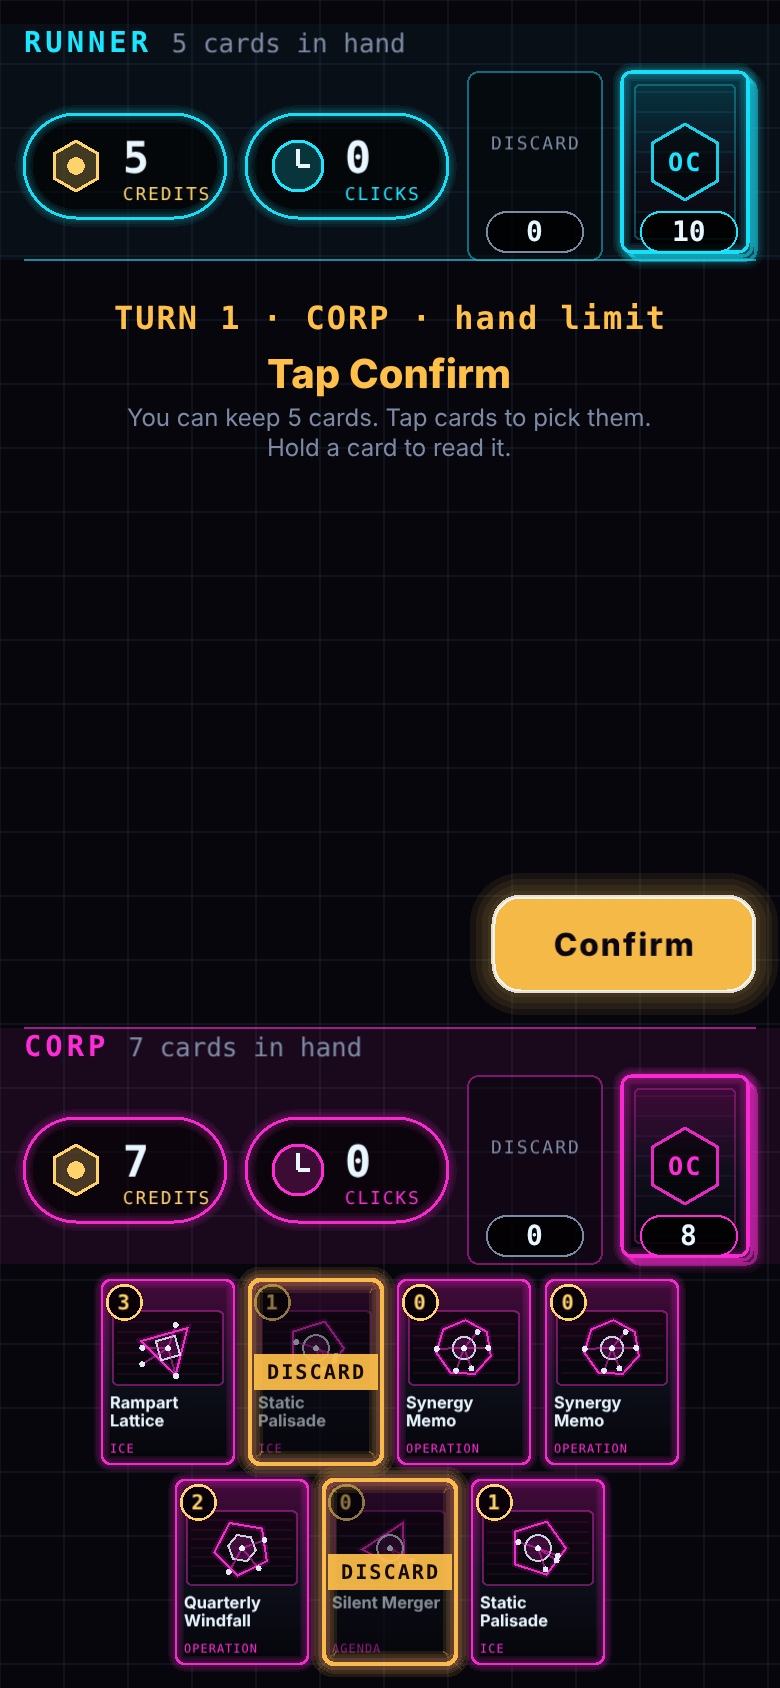
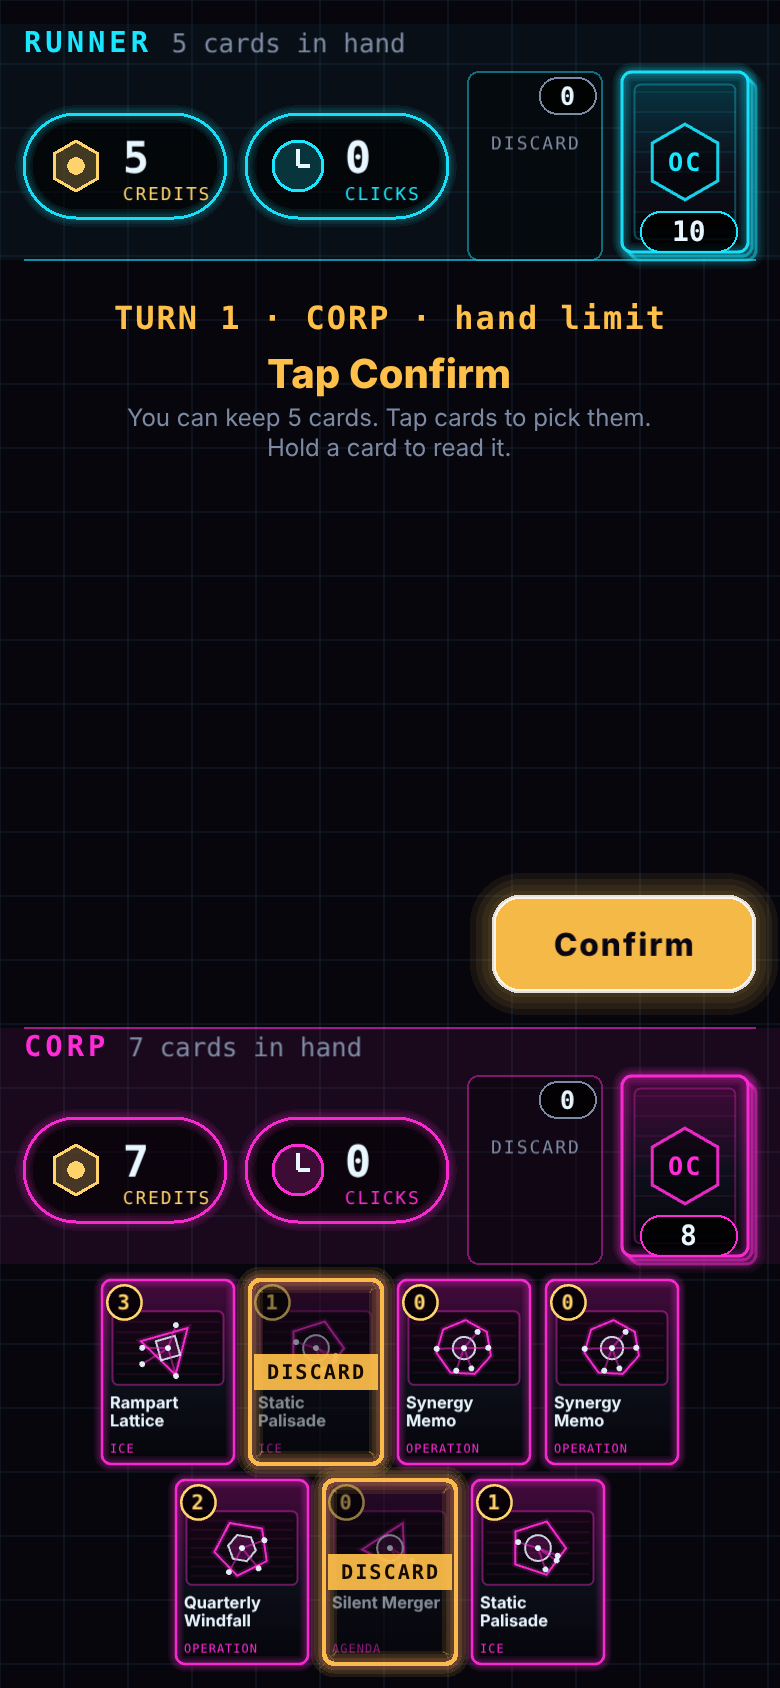
QA(sprint-01): round 2 — QA-S1-1 and QA-S1-2 fixed, no regressions; double-tap guard tests
Claude-Session: https://claude.ai/code/session_01H2afAQkcEZ6wrQU5EiPEBi

diff --git a/apps/client/e2e/qa-sprint01.spec.ts b/apps/client/e2e/qa-sprint01.spec.ts
@@ -249,3 +249,112 @@ test.describe('QA snappiness: longest turn change', () => {
     expect(qa.firstOk, 'End turn answered within 600ms of Confirm').toBeLessThanOrEqual(600);
   });
 });
+
+// Round 2 (QA-S1-1 fix): the End turn double-tap guard now counts from the tap that
+// ended the last turn. Check that extra taps in the next 300ms still do nothing, so a
+// fast double (or triple) tap cannot end two turns. On the discard path the Confirm
+// button and the next seat's End turn sit in the same spot.
+
+interface Poke {
+  /** ms after the release of the tap that ended the turn (page clock). */
+  at: number;
+  accepted: boolean;
+}
+
+/**
+ * Armed before the tap that ends a turn. From that tap's release, taps the spot `at`
+ * (and End turn, wherever it is once shown) at each of `offsets` ms, recording when
+ * each tap really happened and whether the game acted on it.
+ */
+async function pokeAfterTap(page: Page, at: Box, offsets: readonly number[]): Promise<void> {
+  await page.evaluate(
+    ([at, offsets]) => {
+      const w = window as unknown as { __pokes?: Poke[] };
+      const pokes: Poke[] = [];
+      w.__pokes = pokes;
+      window.addEventListener(
+        'pointerup',
+        (e) => {
+          const t0 = e.timeStamp;
+          const canvas = document.querySelector('canvas')!;
+          const r = canvas.getBoundingClientRect();
+          const hook = window.__overclock!;
+          const hit = (b: { x: number; y: number; width: number; height: number }) => {
+            const init = { bubbles: true, cancelable: true, pointerId: 11, pointerType: 'mouse', isPrimary: true, button: 0,
+              clientX: r.left + b.x + b.width / 2, clientY: r.top + b.y + b.height / 2 };
+            const before = JSON.stringify(hook.lastEvents());
+            const when = performance.now() - t0;
+            canvas.dispatchEvent(new PointerEvent('pointerdown', { ...init, buttons: 1 }));
+            canvas.dispatchEvent(new PointerEvent('pointerup', { ...init, buttons: 0 }));
+            pokes.push({ at: when, accepted: JSON.stringify(hook.lastEvents()) !== before });
+          };
+          for (const ms of offsets) {
+            setTimeout(() => {
+              hit(at);
+              const b = hook.layout().endTurn?.box;
+              if (b) hit(b);
+            }, Math.max(0, t0 + ms - performance.now()));
+          }
+        },
+        { once: true },
+      );
+    },
+    [at, offsets] as const,
+  );
+}
+
+const OFFSETS = [5, 40, 80, 120, 160, 200, 240, 270] as const;
+
+async function pokesResult(page: Page): Promise<Poke[]> {
+  await page.waitForFunction((n) => ((window as unknown as { __pokes: Poke[] }).__pokes.length >= n), OFFSETS.length);
+  await page.waitForTimeout(100);
+  return page.evaluate(() => (window as unknown as { __pokes: Poke[] }).__pokes);
+}
+
+test.describe('QA round 2: End turn double-tap guard', () => {
+  test('extra End turn taps in the 300ms after ending a turn do nothing (no discard)', async ({ page }) => {
+    await openBoard(page);
+    await toRunnerTurn(page);
+    await page.waitForTimeout(350);
+    const l = await layout(page);
+    const btn = l.endTurn!.box;
+    await pokeAfterTap(page, btn, OFFSETS);
+    await tap(page, btn);
+    const pokes = await pokesResult(page);
+    await waitIdle(page);
+    const v = await getView(page);
+    test.info().annotations.push({ type: 'pokes', description: JSON.stringify(pokes.map((p) => [Math.round(p.at), p.accepted])) });
+    for (const p of pokes.filter((x) => x.at < 300)) expect(p.accepted, `tap ${Math.round(p.at)}ms after End turn`).toBe(false);
+    expect(pokes.filter((x) => x.at < 300).length, 'extra taps landed inside the guard').toBeGreaterThanOrEqual(1);
+    // Only one turn ended. (A tap that the timers delivered after 300ms is a new, allowed
+    // tap: on the Corp's 6 cards it opens the hand-limit step, which is not a turn end.)
+    expect(v.activePlayer).toBe('corp');
+    expect(v.turn).toBe(3);
+    if (!pokes.some((p) => p.accepted)) expect(v.pendingDiscard).toBe(0);
+  });
+
+  test('after a 4-card discard, extra taps on the Confirm / End turn spot in the next 300ms do nothing', async ({ page }) => {
+    await openBoard(page);
+    await toRunnerTurn(page);
+    for (let i = 0; i < 4; i++) await dispatch(page, { type: 'draw', player: 'runner' });
+    await dispatch(page, { type: 'end_turn', player: 'runner' });
+    let l = await waitIdle(page);
+    for (const i of [0, 1, 2, 3]) await tap(page, l.hand[i]!.box);
+    l = await layout(page);
+    const confirm = l.picker!.confirm.box;
+    await pokeAfterTap(page, confirm, OFFSETS);
+    await tap(page, confirm);
+    const pokes = await pokesResult(page);
+    await waitIdle(page);
+    const v = await getView(page);
+    const after = await layout(page);
+    test.info().annotations.push({ type: 'pokes', description: JSON.stringify({ pokes: pokes.map((p) => [Math.round(p.at), p.accepted]), confirm, endTurn: after.endTurn?.box }) });
+    for (const p of pokes.filter((x) => x.at < 300)) expect(p.accepted, `tap ${Math.round(p.at)}ms after Confirm`).toBe(false);
+    expect(pokes.filter((x) => x.at < 300).length, 'extra taps landed inside the guard').toBeGreaterThanOrEqual(1);
+    expect(v.activePlayer).toBe('corp');
+    expect(v.turn).toBe(3);
+    if (!pokes.some((p) => p.accepted)) expect(v.pendingDiscard).toBe(0);
+    expect(v.players.runner.handCount).toBe(5);
+    expect(v.players.corp.handCount).toBe(6);
+  });
+});

diff --git a/docs/sprints/sprint-01-qa.md b/docs/sprints/sprint-01-qa.md
@@ -1,8 +1,10 @@
 # Sprint 1 — QA report
 
-QA date: 2026-11-12 · Branch `sprint-01` (verified at e2bd0ea plus the QA files, not yet committed) · QA did not write the code under test.
+QA date: 2026-11-12 · Branch `sprint-01` · Round 1 verified at e2bd0ea; **Round 2 verified at 20d5d52** (after the fixes eecee5f, 57d3bc7, 20d5d52) plus QA's uncommitted test/screenshot updates · QA did not write the code under test.
 
-Summary: **20 of 21 acceptance criteria PASS. 1 is an OWNER CHECK AT DEMO** (S-01-6 "Add to Home Screen", a manual check on a real phone; the automated part is green). **1 minor snappiness bug** (QA-S1-1, End turn ignores taps for about 0.7 s after a 4-card discard), **1 cosmetic bug** (QA-S1-2). No IP problems. QA added 2 engine tests and 16 Playwright runs (8 checks × phone/desktop).
+Summary (after Round 2): **20 of 21 acceptance criteria PASS. 1 is an OWNER CHECK AT DEMO** (S-01-6 "Add to Home Screen", a manual check on a real phone; the automated part is green). **Both Round 1 bugs are fixed and verified** (QA-S1-1: End turn now answers 315–513 ms after a 4-card Confirm, was 650–755 ms; QA-S1-2: face-up discard piles show name and type clearly). **All required checks now PASS**, including the snappiness budget. No new bugs, no regressions, no IP problems. QA has added 2 engine tests and 20 Playwright runs (10 checks × phone/desktop). See "Round 2" below.
+
+Round 1 summary (kept for history): 20/21 PASS + 1 owner check; 1 minor snappiness bug (QA-S1-1), 1 cosmetic bug (QA-S1-2).
 
 Criteria are the ones in `sprint-01-proposal.md` as updated by the owner's answers: no hand-over screen (the board shows the active player at the bottom), an End turn button with no automatic end, and ending the turn early is allowed.
 
@@ -24,7 +26,7 @@ Criteria are the ones in `sprint-01-proposal.md` as updated by the owner's answe
 | S-01-3 | End turn button is there; glows brighter once all clicks are used | **PASS** | P `turn.spec.ts` › "End turn is there and glows brighter once all clicks are used" (game's own flag). **Added by QA:** P `e2e/qa-sprint01.spec.ts` › "the End turn button is clearly brighter on screen once all clicks are used", which measures the real pixels: average brightness of the button goes from about 17 to about 99 (out of 255), and the share of bright pixels from 8% to 90%. Screenshots `phone-390x844-01…` (dim) vs `phone-390x844-04-corp-0-clicks-end-turn-glowing.png` (lit), `desktop-1280x800-02-corp-0-clicks-glow.png`. |
 | S-01-3 | End turn with clicks left ends the turn anyway | **PASS** | P `turn.spec.ts` › "ending with clicks left ends the turn anyway (leftover clicks are lost)". E `turn.test.ts` › "Corp may end with clicks left", "Runner may end with all 4 clicks left". QA playthrough: Runner ended with 2 clicks left (it held 6 cards, so the discard step came first). Screenshot `phone-390x844-13-runner-ends-early-hand-limit-discard-1.png`. |
 | S-01-3 | After the last click the turn does not end by itself | **PASS** | P `turn.spec.ts` › "the turn does not end by itself after the last click" (waits 1 s at 0 clicks: same turn, End turn glowing). E `turn.test.ts` › "spending the last click does not end the turn by itself". The engine property test below also confirms End turn is always offered and the turn never passes without it. |
-| S-01-3 | Turn change in well under a second, no extra screens | **PASS** | P `turn.spec.ts` › "the turn change is fast, with no extra screen, and the next player can act at once" (new seat inside the same tap, no cover screen, picker or zoom; the next player's deck tap works at once) and "turn change with a 4-card discard is still scheduled within 600ms". **Added by QA:** `qa-sprint01.spec.ts` › "Runner discards 4, then the Corp turn starts with its free draw…": the board flips to the Corp without any tap in **310–440 ms** on this machine (worst case, 4 cards flying), and the Corp's deck tap then draws. See QA-S1-1 for a smaller problem with the End turn button in that same moment. |
+| S-01-3 | Turn change in well under a second, no extra screens | **PASS** | P `turn.spec.ts` › "the turn change is fast, with no extra screen, and the next player can act at once" (new seat inside the same tap, no cover screen, picker or zoom; the next player's deck tap works at once) and "turn change with a 4-card discard is still scheduled within 600ms". **Added by QA:** `qa-sprint01.spec.ts` › "Runner discards 4, then the Corp turn starts with its free draw…": the board flips to the Corp without any tap in **310–440 ms** on this machine (worst case, 4 cards flying), and the Corp's deck tap then draws. Round 2: flip in **233–297 ms**, and End turn now also answers within 315–513 ms (QA-S1-1 fixed). |
 | S-01-4 | Turn change: active player's side at the bottom, hand face up, no cover screen | **PASS** | P `e2e/board.spec.ts` › "Corp turn: Corp at the bottom with its hand, Runner on top as a count", "Runner turn: the board flips straight away, no cover screen" (and back to the Corp). Screenshots `phone-390x844-11…` (Runner at the bottom) and `phone-390x844-14…` (Corp at the bottom). |
 | S-01-4 | You see how many cards your opponent holds, not what they are | **PASS** | E `engine/test/view.test.ts` › "shows the viewer their own hand and hides the opponent hand (count only)", "never exposes deck order…"; "hides cardId of opponent draws". P `board.spec.ts` (opponent hand is `null` in the view; top label reads "5 cards in hand"). The Corp's discards also reach the Runner face down (`phone-390x844-11…`, top row shows card backs). |
 | S-01-5 | More than 5 cards at End turn: asks you to pick, shows how many ("Discard 2") | **PASS** | P `e2e/discard.spec.ts` › "ending with more than 5 cards asks you to pick, showing how many are left". E `engine/test/discard.test.ts` AC1 group. QA playthrough: 7 cards → "Discard 2". Screenshots `phone-390x844-06-discard-picker-discard-2.png`, `phone-390x844-13…` (Runner side). |
@@ -41,14 +43,14 @@ Criterion count: S-01-1 ×5, S-01-2 ×4, S-01-3 ×4, S-01-4 ×2, S-01-5 ×4, S-0
 | Check | Result | Evidence |
 |---|---|---|
 | Snappiness: taps respond in < 100 ms | **PASS** | `expectSnappy` in `actions.spec.ts` and `turn.spec.ts`: game state < 100 ms after release, animation started < 100 ms after release, on phone (touch) and desktop. |
-| Snappiness: no animation blocks input > 600 ms | **FAIL (minor), see QA-S1-1** | Every animation is scheduled ≤ 600 ms and deck/credit taps never wait. But after a 4-card discard the next player's **End turn** answers only **650–755 ms** after Confirm (10 of 10 runs). Test: `qa-sprint01.spec.ts` › "after a 4-card discard, the next player's End turn answers within 600ms of Confirm" (marked as a known failure with `test.fail`, so the suite stays green until it's fixed). |
+| Snappiness: no animation blocks input > 600 ms | **PASS (Round 2)**; was FAIL (minor) in Round 1, see QA-S1-1 | Round 2: `qa-sprint01.spec.ts` › "after a 4-card discard, the next player's End turn answers within 600ms of Confirm" is now a normal test (`test.fail` removed by ui-dev) and passed **20 of 20** runs (`--repeat-each=10 --retries=0`, phone + desktop): End turn answers **315–513 ms** after Confirm (phone 347–513, desktop 315–443). The deck answers 332–495 ms after Confirm (QA probe). Round 1 value was 650–755 ms. |
 | Empty timing windows auto-pass | **PASS** (as far as Sprint 1 goes) | Sprint 1 has no response windows yet. **Added by QA:** `packages/engine/test/qa-no-empty-windows.test.ts`: over 200 random full games, the game never waits on a player with nothing to do, the waiting player is never asked for anything, End turn is always available, the hand-limit step appears exactly when the hand is over 5 (otherwise the turn just passes), and a finished game waits on nobody. Must be re-tested when runs and responses arrive. |
 | Original IP only | **PASS** | `packages/cards/test/ip-check.test.ts` and `ip-art-and-ui.test.ts` pass. No card was added or changed this sprint (`packages/cards` untouched since Sprint 0). New on-screen words (End turn, Confirm, Discard N, hand limit, "Runner wins: the Corp ran out of cards", hints) are original. The manifest, page title and icon say "OVERCLOCK" and use plain shapes. The word "android" only appears inside the graphics library (phone detection) and in test comments about Android phones, never on screen. Note: the rules docs and code comments use the genre's zone words (Archives, heap, HQ, R&D); they are not shown on screen, the screen just says "DISCARD". |
 | Phone 390×844 and desktop | **PASS** | Playthrough below, both e2e projects. |
 
 ## Bugs found
 
-### QA-S1-1 (minor, snappiness): End turn ignores taps for about 0.7 s after a big discard
+### QA-S1-1 (minor, snappiness): End turn ignores taps for about 0.7 s after a big discard — **FIXED, verified in Round 2**
 - **What happens:** right after a player confirms a 4-card discard, the next player's End turn button stays dead for 650–755 ms after the Confirm tap, with no feedback. The budget is "no animation blocks input for more than 600 ms". Deck and credits taps are fine.
 - **Repro (phone or desktop, `?seed=1`):**
   1. Corp: tap End turn, pick 1 card, tap Confirm (the Runner's turn starts).
@@ -60,7 +62,7 @@ Criterion count: S-01-1 ×5, S-01-2 ×4, S-01-3 ×4, S-01-4 ×2, S-01-5 ×4, S-0
 - **Suggested direction (developer's call):** count the double-tap guard from the Confirm/End-turn tap rather than from the flip, or shorten it, so the next seat's End turn is usable ≤ 600 ms after the tap. When fixed, remove `test.fail` from that test.
 - **Owner impact:** hardly noticeable on one shared phone (the other person rarely taps that fast), but it breaks the team's own budget and will matter more once each player has their own device.
 
-### QA-S1-2 (cosmetic): count badge covers the top card's name on a face-up discard pile
+### QA-S1-2 (cosmetic): count badge covers the top card's name on a face-up discard pile — **FIXED, verified in Round 2**
 - **What happens:** once a pile shows a face-up top card, its count badge (for example "10" or "1") sits on top of the card's name and type, which are then hard to read: "Mindshare Patent" in `phone-390x844-15-game-over-runner-wins.png`, "Rooftop Medic / RESOURCE" in `phone-390x844-14-corp-turn-3-free-draw.png`.
 - **Repro:** play until a player has discarded (for example step 1 above). Look at that player's pile, face up to its owner and, for the Runner's pile, to both players.
 - Not part of any criterion (each criterion only needs the count to go up, and it does). Suggest moving the badge below the card or making the top card smaller.
@@ -81,17 +83,19 @@ Criterion count: S-01-1 ×5, S-01-2 ×4, S-01-3 ×4, S-01-4 ×2, S-01-5 ×4, S-0
 | All acceptance criteria pass | 20/21 PASS, 1 owner check at demo | Table above |
 | Engine logic has Vitest unit tests | PASS | `packages/engine/test/*` (107 tests incl. 2 QA), `packages/match/test` (8) |
 | Every criterion has at least one automated test | PASS | Table above (S-01-6 home-screen: manifest test + safe-area tests; the rest is the owner's manual check) |
-| `npm run lint` | PASS (exit 0) | local, with QA files |
-| `npm run typecheck` | PASS (exit 0) | local, with QA files |
-| `npm test` | PASS: 292 tests (ai 3, cards 36, engine 107 incl. 2 QA, match 8, client 138) | local |
-| `npm run build` | PASS | main bundle 382 kB (117 kB gzipped); CSP meta tag and `manifest.webmanifest` present in `dist/` |
-| `CI=1 npm run test:e2e` | PASS (exit 0): 112/112 (96 team + 16 QA; the 2 QA-S1-1 runs count as expected failures) | local. Before QA files: 96/96 |
+| `npm run lint` | PASS (exit 0) | Round 2, at 20d5d52, with and without QA's new tests |
+| `npm run typecheck` | PASS (exit 0) | Round 2, same |
+| `npm test` | PASS: 292 tests (ai 3, cards 36, engine 107 incl. 2 QA, match 8, client 138) | Round 2 |
+| `npm run build` | PASS | Round 2: main bundle 383 kB (118 kB gzipped) |
+| `CI=1 npm run test:e2e` | PASS (exit 0): **116/116**, no retries used (96 team + 20 QA) | Round 2, with QA's new tests. At 20d5d52 before them: 112/112 |
 | Works on 390×844 phone and desktop | PASS | e2e projects + playthrough screenshots |
-| Snappiness budget | Partial: see QA-S1-1 | above |
+| Snappiness budget | PASS (Round 2) | above, and Round 2 section |
 | Original IP only | PASS | above |
 | Demo notes | Not QA's item | PM, phase DEMO |
 
 ## Playthrough and screenshots (`docs/sprints/sprint-01-qa/`, 2× pixel density)
+
+All screenshots in this list were **re-taken in Round 2** at 20d5d52 with the same playthrough script (same steps, seed 1, real taps). Every recorded value matched Round 1 (banners, hand counts, pile counts, glow pixels off 17 → on 99 mean brightness, notch/gesture bands 0 bright pixels).
 
 QA played one full cycle with real taps on a 390×844 phone (touch) and a 1280×800 desktop (mouse), seed 1: Corp credit → draw → credit (0 clicks, End turn lights up) → "No clicks left" → End turn → "Discard 2" → mark, zoom, mark → Confirm → Runner turn (board flips, Corp pile shows 2 face down) → Runner credit + draw → tap the Corp's deck (nothing) → End turn early with 2 clicks left → "Discard 1" → Confirm → Corp turn 3 with its free draw → played on to game over. Then repeated with simulated notches.
 
@@ -115,8 +119,51 @@ QA played one full cycle with real taps on a 390×844 phone (touch) and a 1280×
 - `phone-360x640-extra-picker-with-android-bars.png`: small phone, 8 cards, picker
 - `desktop-1280x800-01-corp-turn-1-on-load.png`, `-02-corp-0-clicks-glow.png`, `-03-discard-picker-two-marked.png`, `-04-runner-turn-2.png`, `-05-corp-turn-3.png`
 
+## Round 2 (2026-11-12, at 20d5d52)
+
+Fixes checked: eecee5f (End turn double-tap guard counted from the tap, not the flip), 57d3bc7 (card pictures drawn once and shared; discard flight 250 → 180 ms), 20d5d52 (discard pile count badge moved to the top-right corner).
+
+### R2-1. QA-S1-1 fixed: End turn answers within 600 ms after a 4-card discard — PASS
+- `npx playwright test e2e/qa-sprint01.spec.ts -g "answers within 600ms|longest turn change" --repeat-each=10 --retries=0`: **40/40 passed**.
+- "…End turn answers within 600ms of Confirm", time from Confirm to the first End turn tap the game acts on:
+  - phone (10 runs): 347, 357, 430, 442, 460, 471, 479, 487, 493, 513 ms → **min 347, max 513**
+  - desktop (10 runs): 315, 326, 381, 393, 395, 403, 424, 427, 438, 443 ms → **min 315, max 443**
+  - board flip: 225–308 ms. (Round 1: End turn 651–755 ms.)
+- "Runner discards 4, then the Corp turn starts with its free draw…": 20/20 passed, flip 233–297 ms. (This test only starts tapping the deck at 600 ms, so its "first draw" figure of 626–762 ms is the tap schedule, not a delay.) A QA probe that taps the deck from the moment of Confirm got its first draw at **332–495 ms** (20 runs); the probe was a throwaway file, removed afterwards.
+
+### R2-2. Double-tap guard still stops a fast double tap from ending two turns — PASS
+The guard now runs 300 ms from the tap that ended the turn. On the discard step, Confirm and the next player's End turn are in the same spot (same box in the layout), so this is the risky case. New QA tests in `qa-sprint01.spec.ts` › "QA round 2: End turn double-tap guard" fire extra taps on that spot (and on End turn as soon as it shows) for 270 ms after the tap, record when each one really landed and whether the game acted on it:
+- "extra End turn taps in the 300ms after ending a turn do nothing (no discard)"
+- "after a 4-card discard, extra taps on the Confirm / End turn spot in the next 300ms do nothing"
+- Result (`--repeat-each=10 --retries=0 --workers=1`): **40/40 passed**. 4–16 extra taps per run landed inside the 300 ms; **0 of them** were acted on. Always exactly one turn ended (Corp, turn 3). The first tap the game accepted came at 303–447 ms, i.e. after the guard, as designed (it opens the Corp's own "Discard 1" step, it does not end a second turn).
+- The team's `turn.spec.ts` › "a double tap on End turn ends only one turn" also passes.
+- Note: on this test machine the page is busy for about 100–200 ms right after a turn-change tap (the first extra tap, scheduled at 5 ms, actually ran at 64–218 ms). QA ran the same tests on the Round 1 code: 81–197 ms, so **no change** from the fixes. It doesn't break any check (the game reacts to the tap within 100 ms; the delay is drawing the new board without a graphics card). Worth a look on a real phone at the demo.
+
+### R2-3. QA-S1-2 fixed: face-up discard piles readable — PASS
+Count is now a small chip in the card's top-right corner, over the picture only; name and type are clear, including a two-digit count. Fresh 2× close-ups (Turn 9, Corp's pile 5 cards, Runner's pile 10 cards, both face up to the Corp):
+- `r2-phone-390x844-corp-discard-pile-closeup.png` ("Kiosk Mesh / ASSET", count 5), `r2-phone-390x844-runner-discard-pile-closeup.png` ("Wallgnaw / PROGRAM", count 10), full board `r2-phone-390x844-full.png`
+- `r2-desktop-1280x800-corp-discard-pile-closeup.png`, `r2-desktop-1280x800-runner-discard-pile-closeup.png`, full board `r2-desktop-1280x800-full.png`
+- Also in the re-taken playthrough: `phone-390x844-14-corp-turn-3-free-draw.png` ("Rooftop Medic / RESOURCE", count 1), `phone-390x844-15-game-over-runner-wins.png` ("Mindshare Patent / AGENDA", count 10), `desktop-1280x800-05-corp-turn-3.png` ("Synergy Memo / OPERATION", count 2; small but readable on desktop).
+- The face-down pile (the Corp's discards seen by the Runner) still shows a card back with its count (`r2-resize-8-…png`, `phone-390x844-11-…png`).
+
+### R2-4. Window resize still draws cards correctly (shared card pictures) — PASS
+Shared card pictures are freed two sizes later, so QA resized one game (desktop page, Turn 9, face-up piles on both sides) through 390×844 → 1280×800 → 768×1024 → 390×844 → 1280×800 → 360×640 → 1280×800, then drew a card and ended the turn (discard step, Confirm, board flips to the Runner).
+- Every hand card, deck and pile had drawn content at every size (no blank cards); the pixel measurements of all cards were **identical** each time the same size came back (390×844 twice, 1280×800 three times), so nothing faded or went missing.
+- No console errors or warnings during the whole run.
+- Screenshots `r2-resize-1-390x844.png` … `r2-resize-7-1280x800.png`, `r2-resize-8-after-resizes-turn-change.png`.
+
+### R2-5. No regressions — PASS
+- `npm run lint`, `npm run typecheck`, `npm test` (292), `npm run build`: all exit 0.
+- `CI=1 npm run test:e2e`: 112/112 at 20d5d52; **116/116 with QA's Round 2 tests**; no retries used.
+- Phone playthrough (390×844, touch) and desktop playthrough re-taken; all screenshots above replaced; all recorded values matched Round 1.
+- IP: no new words on screen (the chip shows only a number); `packages/cards` untouched; IP tests pass.
+
+### Round 2 bugs
+None found.
+
 ## Files added by QA
 
 - `packages/engine/test/qa-no-empty-windows.test.ts`: no empty timing windows / hand-limit step only when needed (random full games).
 - `apps/client/e2e/qa-sprint01.spec.ts`: End turn glow in real pixels; discard flight goes to the player's own pile; empty notch/gesture bands in real pixels; zoom inside the safe area; worst-case turn change timing; QA-S1-1 known-failure test.
 - `docs/sprints/sprint-01-qa/`: screenshots above.
+- Round 2: `apps/client/e2e/qa-sprint01.spec.ts` gained the "QA round 2: End turn double-tap guard" tests (2 checks × phone/desktop); the QA-S1-1 test's `test.fail` was removed by ui-dev in eecee5f. All playthrough screenshots re-taken; new `r2-*.png` files (pile close-ups, resize check).
